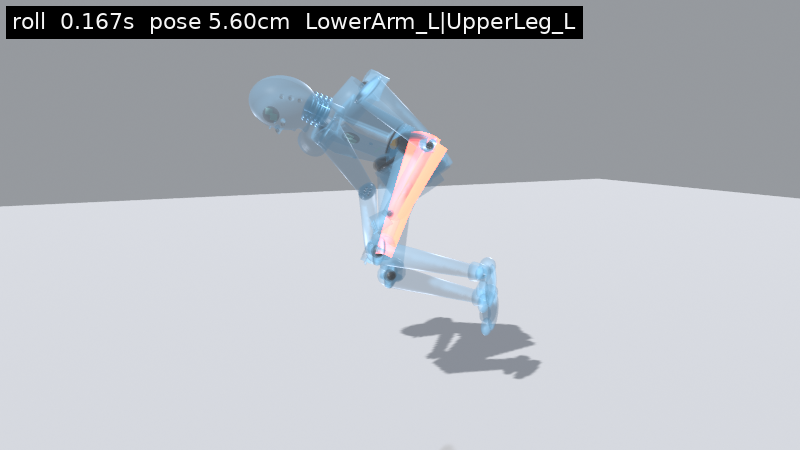
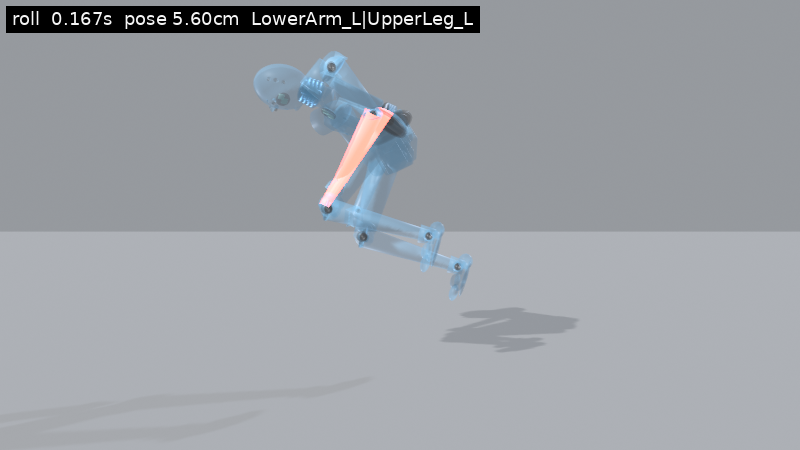
Drop the vault hips on the plant and the landing.
The plant bends both knees and sets the hips bone 10 cm down, with the soles on the floor. The landing crouches 20 cm with the knees ahead of the ankles. Hip and knee overlap stays rigJoint. The roll tuck stays on the hips.

diff --git a/Assets/Scripts/Art/MantlePose.cs b/Assets/Scripts/Art/MantlePose.cs
@@ -80,7 +80,10 @@ namespace Tag.Art
         /// knee, over, and land, which is what the handoff proof measures.
         /// The arms stay an uncrossed plant on the obstacle. Both legs swing
         /// out to their own sides and stay there until the hips have passed,
-        /// then come home. The spine keeps its forward lean. Not a root lift.
+        /// then come home. The hip takes the pitch and the spine stays near
+        /// eight degrees. On the plant and the landing the pelvis bone drops
+        /// and the support knees bend, so the sit is not a straight leg leaned
+        /// back. That drop is the hips bone, not the capsule and not the root.
         /// </summary>
         struct VaultKey
         {
@@ -88,6 +91,7 @@ namespace Tag.Art
             public float ThL, ThR, KnL, KnR, YawL, YawR;
             public float ArmL, ArmR, AyL, AyR, ElbL, ElbR;
             public float Hip, Spine, Head;
+            public float PelvisDrop;
         }
 
         public struct Sample
@@ -97,6 +101,8 @@ namespace Tag.Art
             public float ArmPitchL, ArmPitchR, ArmYawL, ArmYawR;
             public float ElbowL, ElbowR;
             public float Hip, Spine, Head;
+            /// <summary>Meters the hips bone sits below its standing height. Not a root offset.</summary>
+            public float PelvisDrop;
         }
 
         /// <summary>
@@ -194,6 +200,7 @@ namespace Tag.Art
                 Hip = Mathf.Lerp(a.Hip, b.Hip, t),
                 Spine = Mathf.Lerp(a.Spine, b.Spine, t),
                 Head = Mathf.Lerp(a.Head, b.Head, t),
+                PelvisDrop = Mathf.Lerp(a.PelvisDrop, b.PelvisDrop, t),
             };
             if (!leadLeft) s = Mirror(s);
             return s;
@@ -203,17 +210,19 @@ namespace Tag.Art
         {
             return new VaultKey[]
             {
-                Key(0.00f, 24f, 14f, -36f, -22f, -10f, 8f, -58f, -58f, -18f, 18f, -46f, -46f, 14f, 20f, -10f),
-                Key(0.16f, 68f, 52f, -42f, -38f, -58f, 48f, -58f, -58f, -18f, 18f, -46f, -46f, 16f, 20f, -8f),
-                Key(0.36f, 82f, 70f, -40f, -44f, -78f, 70f, -56f, -56f, -16f, 16f, -42f, -42f, 18f, 20f, -6f),
-                Key(0.64f, 74f, 64f, -40f, -44f, -72f, 66f, -54f, -54f, -16f, 16f, -40f, -40f, 16f, 18f, -4f),
-                Key(0.82f, 36f, 32f, -38f, -36f, -10f, 10f, -48f, -48f, -16f, 16f, -38f, -38f, 14f, 16f, -4f),
-                Key(1.00f, 24f, 22f, -40f, -36f, 0f, 4f, -46f, -46f, -16f, 16f, -36f, -36f, 12f, 16f, -4f),
+                Key(0.00f, 52f, 52f, -64f, -64f, -12f, 12f, -58f, -58f, -18f, 18f, -46f, -46f, 18f, 8f, -10f, 0.10f),
+                Key(0.16f, 72f, 58f, -48f, -42f, -58f, 48f, -58f, -58f, -18f, 18f, -46f, -46f, 26f, 8f, -8f, 0f),
+                Key(0.36f, 82f, 70f, -40f, -44f, -78f, 70f, -56f, -56f, -16f, 16f, -42f, -42f, 28f, 8f, -6f, 0f),
+                Key(0.64f, 74f, 64f, -40f, -44f, -72f, 66f, -54f, -54f, -16f, 16f, -40f, -40f, 24f, 8f, -4f, 0f),
+                Key(0.82f, 48f, 42f, -42f, -38f, -10f, 10f, -48f, -48f, -16f, 16f, -38f, -38f, 22f, 8f, -4f, 0f),
+                Key(0.92f, 60f, 58f, -72f, -72f, -22f, 22f, -46f, -46f, -16f, 16f, -36f, -36f, 20f, 8f, -4f, 0.12f),
+                Key(1.00f, 64f, 64f, -82f, -82f, -26f, 26f, -46f, -46f, -16f, 16f, -36f, -36f, 20f, 8f, -4f, 0.20f),
             };
         }
 
         static VaultKey Key(float u, float thL, float thR, float knL, float knR, float yawL, float yawR,
-            float armL, float armR, float ayL, float ayR, float elbL, float elbR, float hip, float spine, float head)
+            float armL, float armR, float ayL, float ayR, float elbL, float elbR, float hip, float spine, float head,
+            float pelvisDrop)
         {
             return new VaultKey
             {
@@ -221,6 +230,7 @@ namespace Tag.Art
                 ThL = thL, ThR = thR, KnL = knL, KnR = knR, YawL = yawL, YawR = yawR,
                 ArmL = armL, ArmR = armR, AyL = ayL, AyR = ayR, ElbL = elbL, ElbR = elbR,
                 Hip = hip, Spine = spine, Head = head,
+                PelvisDrop = pelvisDrop,
             };
         }
 
@@ -446,6 +456,7 @@ namespace Tag.Art
                 Hip = s.Hip,
                 Spine = s.Spine,
                 Head = s.Head,
+                PelvisDrop = s.PelvisDrop,
             };
         }
 

diff --git a/Assets/Scripts/Art/HandoffFeel.cs b/Assets/Scripts/Art/HandoffFeel.cs
@@ -55,8 +55,9 @@ namespace Tag.Art
 
         /// <summary>
         /// Degrees added on the played roll. <see cref="RollShot"/> does not read this.
-        /// The knees open so the chest sits between the thighs. The arms tuck in
-        /// with the chin. The spine stays rounded.
+        /// The hip takes the fold. The spine stays a little rounded, not flat.
+        /// The thighs swing out to their own sides. The chin stays in.
+        /// Hip-into-thigh and shin-into-thigh stay on the rig.
         /// </summary>
         public struct RollAdd
         {
@@ -75,17 +76,17 @@ namespace Tag.Art
         static readonly RollKey[] ClearKeys =
         {
             // u is the squash fraction. Same samples the pose dump writes.
-            RollKeyAt(0.000000f, -40f, 40f, -28f, -4f, 0f, 0f, -8f, 0f, 0f, 0f, 10f),
-            RollKeyAt(0.103333f, -39f, 39f, -23f, -2f, 0f, 0f, -4f, 0f, 0f, 0f, 9f),
-            RollKeyAt(0.206667f, -38f, 38f, -18f, 0f, 0f, 0f, 0f, 0f, 0f, 0f, 8f),
-            RollKeyAt(0.310000f, -36f, 34f, -28f, -18f, 0f, 0f, 0f, 0f, 0f, 2f, 6f),
-            RollKeyAt(0.413333f, -36f, 38f, 0f, 0f, 0f, 0f, 0f, 0f, 0f, 2f, 4f),
-            RollKeyAt(0.516667f, -36f, 40f, 0f, 0f, 0f, 0f, 0f, 0f, 0f, 0f, 4f),
-            RollKeyAt(0.620000f, -36f, 18f, 0f, 0f, 0f, 14f, 0f, -24f, 0f, 3f, 2f),
-            RollKeyAt(0.723333f, -38f, 28f, 0f, 0f, 0f, 0f, 0f, 0f, 0f, 2f, 0f),
-            RollKeyAt(0.826667f, -26f, 30f, 0f, 0f, 0f, 0f, 0f, 0f, 0f, 4f, 0f),
-            RollKeyAt(0.930000f, -24f, 26f, 0f, 0f, 0f, 0f, 0f, 0f, 0f, 2f, 0f),
-            RollKeyAt(1.000000f, -14f, 16f, 0f, 0f, 0f, 0f, 0f, 0f, 0f, 2f, 0f),
+            RollKeyAt(0.000000f, -40f, 40f, -28f, -4f, 0f, 0f, -8f, 0f, 4f, -6f, 10f),
+            RollKeyAt(0.103333f, -39f, 39f, -23f, -2f, 0f, 0f, -4f, 0f, 6f, -7f, 9f),
+            RollKeyAt(0.206667f, -38f, 38f, -18f, 0f, 0f, 0f, 0f, 0f, 8f, -10f, 8f),
+            RollKeyAt(0.310000f, -36f, 34f, -28f, -18f, 0f, 0f, 0f, 0f, 12f, -14f, 6f),
+            RollKeyAt(0.413333f, -36f, 38f, 0f, 0f, 0f, 0f, 0f, 0f, 16f, -17f, 4f),
+            RollKeyAt(0.516667f, -36f, 40f, 0f, 0f, 0f, 0f, 0f, 0f, 16f, -18f, 4f),
+            RollKeyAt(0.620000f, -36f, 34f, 0f, -16f, 0f, 18f, 0f, -28f, 12f, -16f, 2f),
+            RollKeyAt(0.723333f, -36f, 36f, 0f, -24f, 0f, 8f, 0f, -20f, 10f, -10f, 0f),
+            RollKeyAt(0.826667f, -26f, 30f, 0f, 0f, 0f, 0f, 0f, 0f, 10f, -6f, 0f),
+            RollKeyAt(0.930000f, -24f, 26f, 0f, 0f, 0f, 0f, 0f, 0f, 10f, -1f, 0f),
+            RollKeyAt(1.000000f, -14f, 16f, 0f, 0f, 0f, 0f, 0f, 0f, 8f, 0f, 0f),
         };
 
         static RollKey RollKeyAt(float u, float yawL, float yawR, float armL, float armR, float ayL, float ayR, float elbL, float elbR, float hip, float spine, float head)

diff --git a/Assets/Scripts/Art/DummyLocomotor.cs b/Assets/Scripts/Art/DummyLocomotor.cs
@@ -1212,6 +1212,8 @@ namespace Tag.Art
         static Mesh _wallJumpDisc;
 
         Quaternion _spineT, _hipsT, _headT;
+        Vector3 _hipsPos0;
+        bool _hipsPosSet;
         Quaternion _uaLT, _uaRT, _laLT, _laRT;
         Quaternion _ulLT, _ulRT, _llLT, _llRT;
         Quaternion _ftLT, _ftRT;
@@ -15529,6 +15531,7 @@ namespace Tag.Art
             EaseFacing(dt, yawWall, climb, sliding);
             AbsorbPop(dt);
             ApplyChestGap(climb || wallRun);
+            ApplyPelvisDrop(mantle, mantle ? vault.PelvisDrop : 0f);
             ApplyVisualRoot(bob, WallJumpNudge());
             HoldHead(bob, grounded && !air && !sliding && !climb && !wallRun && !mantle);
             bool secondaryYield = climb || wallRun || mantle || punching || lunging || dashing
@@ -19384,6 +19387,21 @@ namespace Tag.Art
                 _yawBasisSet = true;
             }
             pivot.localRotation = _yawBasis * Quaternion.Euler(0f, _visualYaw, 0f);
+        }
+
+        /// <summary>
+        /// The hips bone drops on a plant and a landing. The capsule and the
+        /// visual root stay where the motor put them.
+        /// </summary>
+        void ApplyPelvisDrop(bool on, float drop)
+        {
+            if (_hips == null) return;
+            if (!_hipsPosSet)
+            {
+                _hipsPos0 = _hips.localPosition;
+                _hipsPosSet = true;
+            }
+            _hips.localPosition = _hipsPos0 + new Vector3(0f, on ? -drop : 0f, 0f);
         }
 
         /// <summary>

diff --git a/Tools/StrafeJumpSim/PoseKeyDump.cs b/Tools/StrafeJumpSim/PoseKeyDump.cs
@@ -43,7 +43,8 @@ static class PoseKeyDump
             MantlePose.Sample s = MantlePose.Cleared(u, true);
             Emit(w, c, "vault", t, s.ThighL, s.ThighR, s.KneeL, s.KneeR, s.ThighYawL, s.ThighYawR,
                 s.ArmPitchL, s.ArmPitchR, s.ArmYawL, s.ArmYawR, 0f, 0f,
-                s.ElbowL, s.ElbowR, s.Hip, s.Spine, s.Head, 0f, 0f, 0f, 0f, 0f, 0f);
+                s.ElbowL, s.ElbowR, s.Hip, s.Spine, s.Head, 0f, 0f, 0f, 0f, 0f, 0f,
+                hipDrop: s.PelvisDrop);
             if (u >= 1f) break;
         }
     }
@@ -402,7 +403,7 @@ static class PoseKeyDump
         float elbL, float elbR, float hip, float spine, float head, float lean,
         float hipYaw, float spineYaw,         float footL, float footR, float drop,
         float elbYawL = 0f, float elbYawR = 0f, float shoulderL = 0f,
-        float thRollL = 0f, float thRollR = 0f)
+        float thRollL = 0f, float thRollR = 0f, float hipDrop = 0f)
     {
         w.Write(clip);
         w.Write('\t');
@@ -417,6 +418,7 @@ static class PoseKeyDump
         Write(w, c, footL); Write(w, c, footR); Write(w, c, drop);
         Write(w, c, elbYawL); Write(w, c, elbYawR); Write(w, c, shoulderL);
         Write(w, c, thRollL); Write(w, c, thRollR);
+        Write(w, c, hipDrop);
         w.WriteLine();
     }
 

diff --git a/Tools/Tag/ingame_noclip.py b/Tools/Tag/ingame_noclip.py
@@ -49,6 +49,7 @@ def load_keys(path):
                 "shoulderL": nums[26] if len(nums) > 26 else 0.0,
                 "thRollL": nums[27] if len(nums) > 27 else 0.0,
                 "thRollR": nums[28] if len(nums) > 28 else 0.0,
+                "hipDrop": nums[29] if len(nums) > 29 else 0.0,
             })
     return frames
 
@@ -82,6 +83,12 @@ def apply_frame(arm, frame):
     set_bone(arm, "LowerArm_R", frame["elbR"], frame.get("elbYawR", 0.0), frame.get("elbRollR", 0.0))
     if abs(frame.get("shoulderL", 0.0)) > 0.001:
         set_bone(arm, "Shoulder_L", 0.0, frame["shoulderL"], 0.0)
+    # Hips is connected to Root, so a Hips location key does not move.
+    # Root has no skin. Dropping Root drops the pelvis bone and the legs.
+    # The armature object stays put. This is not the visual-root drop column.
+    root = arm.pose.bones.get("Root")
+    if root is not None:
+        root.location = (0.0, -frame.get("hipDrop", 0.0), 0.0)
     arm.location = Vector((0.0, 0.0, frame["drop"] + SEAT))
     bpy.context.view_layer.update()
 

diff --git a/Docs/SmoothMotionAudit.md b/Docs/SmoothMotionAudit.md
@@ -581,9 +581,13 @@ The tag clip's chest into the right upper arm was 8.63 cm. The played arm path n
 
 The line above is the pass 21 scan. The slide was the deepest fail on it: the right foot was 12.91 cm into the ground at t=0.067, and the held plant had the right heel at -4.26 cm. Pass 22 re-keyed that clip with joint angles only. The printed drop stays 0.525, and the hip mesh at the hold is still 37.15 cm. The lead thigh comes down and rolls off the trail thigh, the trail knee folds before the hips finish dropping, and the lead arm yaws off the chest. At the hold the lead sole is at 0.00 cm and the trail sole is 0.22 cm. On the 13 slide frames the deepest pose hit is the spine into the left thigh at 0.43 cm at t=0, and the world depth is 0, so the slide clip does not fail. The before/after at the old worst frame is `Docs/SmoothStills/pass22/slide-before.png` and `slide-after.png`. The held pose is `slide-hold.png`.
 
-The vault was the next fail: the left upper arm was 7.39 cm into the left thigh at t=0.233. Pass 23 re-keyed the played curve with joint angles only. The printed plant, knee, over, and land stay the constants, and the mantle window stays 0.40 s. The arms stay an uncrossed plant. Both legs swing out to their own sides and stay there until the hips have passed the obstacle, then come home. The spine stays leaned, between 16 and 20 degrees, rather than folding flat. On the 13 vault frames the deepest pose hit is the spine into the left thigh at 0.43 cm at t=0.300, and the world depth is 0. At the plant both hands sit 0.2 cm on the box top and are not inside it. The before/after is the same camera at t=0.233: the old pose puts the left hand 12.62 cm into the box, and the new pose is 0.16 cm, spine into the right thigh. The six-frame side sheet is the whole vault with the box and the hip line. Stills: `Docs/SmoothStills/pass23/vault-before.png`, `vault-after.png`, and `vault-sheet.png`.
+The vault was the next fail: the left upper arm was 7.39 cm into the left thigh at t=0.233. Pass 23 re-keyed the played curve. The printed plant, knee, over, and land stay the constants, and the mantle window stays 0.40 s. The arms stay an uncrossed plant. Both legs swing out to their own sides and stay there until the hips have passed the obstacle, then come home. The hip takes the pitch and the spine stays near 8 degrees. On the plant the hips bone drops 10.0 cm, both knees bend 61.9 degrees, and the shins angle forward so each knee is 24.1 cm ahead of its ankle and 27.2 cm ahead of the pelvis. The soles sit 0.38 cm off the floor, inside the 0.5 cm window, and they are not in the ground. The pelvis is 11.8 cm behind the support foot. On the landing the hips bone drops 20.0 cm, both knees bend 79.9 degrees, the knees are 28.6 cm ahead of the ankles, the soles are at 0.06 cm, and the pelvis is 10.2 cm behind the feet. That drop is the hips bone. The capsule and the root are not moved. On the 13 vault frames the deepest pose hit is the spine into the left thigh at 0.42 cm, and the ground depth is 0. At the plant both hands sit 0.2 cm on the box top and are not inside it. Hinge ratio on the vault is at least 2.25. The side-swing frames, while the feet are off the box, sit the other way (pelvisBack down to -6.2 cm at t=0.167) because those feet are not the plant. Hip-into-thigh on that clip is rigJoint 7.61 cm and shin-into-thigh is rigJoint 2.45 cm. The before and after use the same camera at t=0.233. On that path the old pose puts the left hand 12.45 cm into the box, and the new pose is 0.01 cm, spine into the right thigh. The plant pair uses that same camera with a vertical through the support foot and a dot on the pelvis. The six-frame side sheet is the whole vault with the box and the hip line. Stills: `Docs/SmoothStills/pass23/vault-before.png`, `vault-after.png`, `vault-sheet.png`, `vault-hip-before.png`, and `vault-hip-after.png`.
 
-The roll was the next fail: the left forearm was 5.60 cm into the left thigh at t=0.167, and the entry tuck put the spine 4.35 cm into both thighs at t=0. Pass 23 re-keyed that clip with joint angles only. The printed roll shot stays the constants, and the roll gate stays 65% of terminal. The knees open so the chest sits between the thighs. The chin stays in and the back stays rounded, spine 28 degrees at the entry and 36 through the shoulder. The arms tuck along the body. On the 11 roll frames the deepest pose hit is the spine into the left thigh at 0.43 cm at t=0, and the world depth is 0, so the roll clip does not fail. The before/after is the same camera at t=0.167. The six-frame side sheet is the whole roll, including the tuck, with the floor and the hip line. Stills: `Docs/SmoothStills/pass23/roll-before.png`, `roll-after.png`, and `roll-sheet.png`.
+The roll was the next fail: the left forearm was 5.60 cm into the left thigh at t=0.167, and the spine was 4.35 cm into both thighs at the tuck (t=0). Pass 23 re-keyed the played roll with joint adds. The printed roll share, speed, thigh, knee, hip, spine, head, arm, and elbow stay the constants, and RollShot does not read the adds. The hip takes the fold (played hip 50 down to 14) and the spine stays rounded between 8 and 22 degrees, so it is not flattened to rest. The chin stays in. The thighs swing out to their own sides. On the 11 roll frames the deepest pose hit is the spine into the left thigh at 0.43 cm, and the world depth is 0. Hinge ratio is at least 1.75. The feet stay off the floor through the tuck (sole 10 cm and up), so pelvisBack on those frames is the swing, down to -52.3 cm at t=0.167, not a plant. Hip-into-thigh on that clip is rigJoint 7.93 cm and shin-into-thigh is rigJoint 3.86 cm. The before and after use the same camera at t=0.167. The plant pair at t=0 uses that camera with a vertical through the support foot and a dot on the pelvis. The six-frame side sheet is the whole roll with the floor and the hip line. Stills: `Docs/SmoothStills/pass23/roll-before.png`, `roll-after.png`, `roll-sheet.png`, `roll-hip-before.png`, and `roll-hip-after.png`.
+
+`hip-sit clips=2 loadedFrames=24 pelvisBackMin=-52.3 cm hingeMin=1.75 kneeMin=61.9 pelvisDropMin=10.0 cm fails=0`
+
+That line is the vault and the roll. kneeMin and pelvisDropMin are the plant and the landing, not the airborne frames. The vault plant knee is 61.9 degrees and the hips bone is 10.0 cm below standing. The landing knee is 79.9 degrees and the hips bone is 20.0 cm down. Both shins point forward, with the knee over and ahead of the ankle, and both soles are inside 0.5 cm of the floor. The roll has no foot plant. Its hinge stays at or above 1.75, and the negative pelvisBack is the airborne swing. Hip and knee hinge depth is rigJoint on both clips.
 
 Nine clips from that pass 21 scan are still open. Pose cm: zip 5.52 chest into upper arm, punch 5.09 chest into upper arm, wall 4.97 chest into upper arm, pad 4.28 spine into thigh, climb 3.74 spine into thigh, idle 1.80 chest into upper arm, stagger 1.08 foot into the ground, loco 0.97 chest into upper arm, sprint 0.97 chest into upper arm.
 

diff --git a/Docs/WhatsNew.md b/Docs/WhatsNew.md
@@ -13,8 +13,8 @@ This map-lane branch is the converged test tip. Pressing Play in `Assets/Scenes/
 - A punch moves the right arm on the mannequin. Reach stays 1.55. Try it: Practice, dummy on, and punch.
 - A vault keeps the horizontal speed you had when you left the ground. It does not add a long launch. Slide is unchanged. Try it: sprint at a rail you can vault and see that you are not thrown across the park.
 - A slide uses the same drop and the same speed. The lead leg reaches along the floor with the sole on it, and the trail leg folds under instead of through the floor. Try it: sprint, then slide, and watch both feet stay on the ground.
-- A vault uses the same timing. Both hands plant on the obstacle, the legs swing out to the sides as the hips pass over, and the arms stay on that plant. Try it: sprint at a rail and vault.
-- A landing roll uses the same timing. The knees open so the chest sits between the thighs, the chin stays in, and the arms tuck along the body. Try it: drop from high enough to roll, and watch the tuck.
+- A vault uses the same timing. Both hands plant on the obstacle, the hips drop and sit back over bent knees, the legs swing out to the sides as the hips pass over, and the arms stay on that plant. The landing crouches. Try it: sprint at a rail and vault.
+- A landing roll tucks from the hips. The chin stays in, the back stays a little rounded, and the legs swing out to the sides. Try it: sprint off a drop high enough to roll.
 
 ## Speed retune
 
